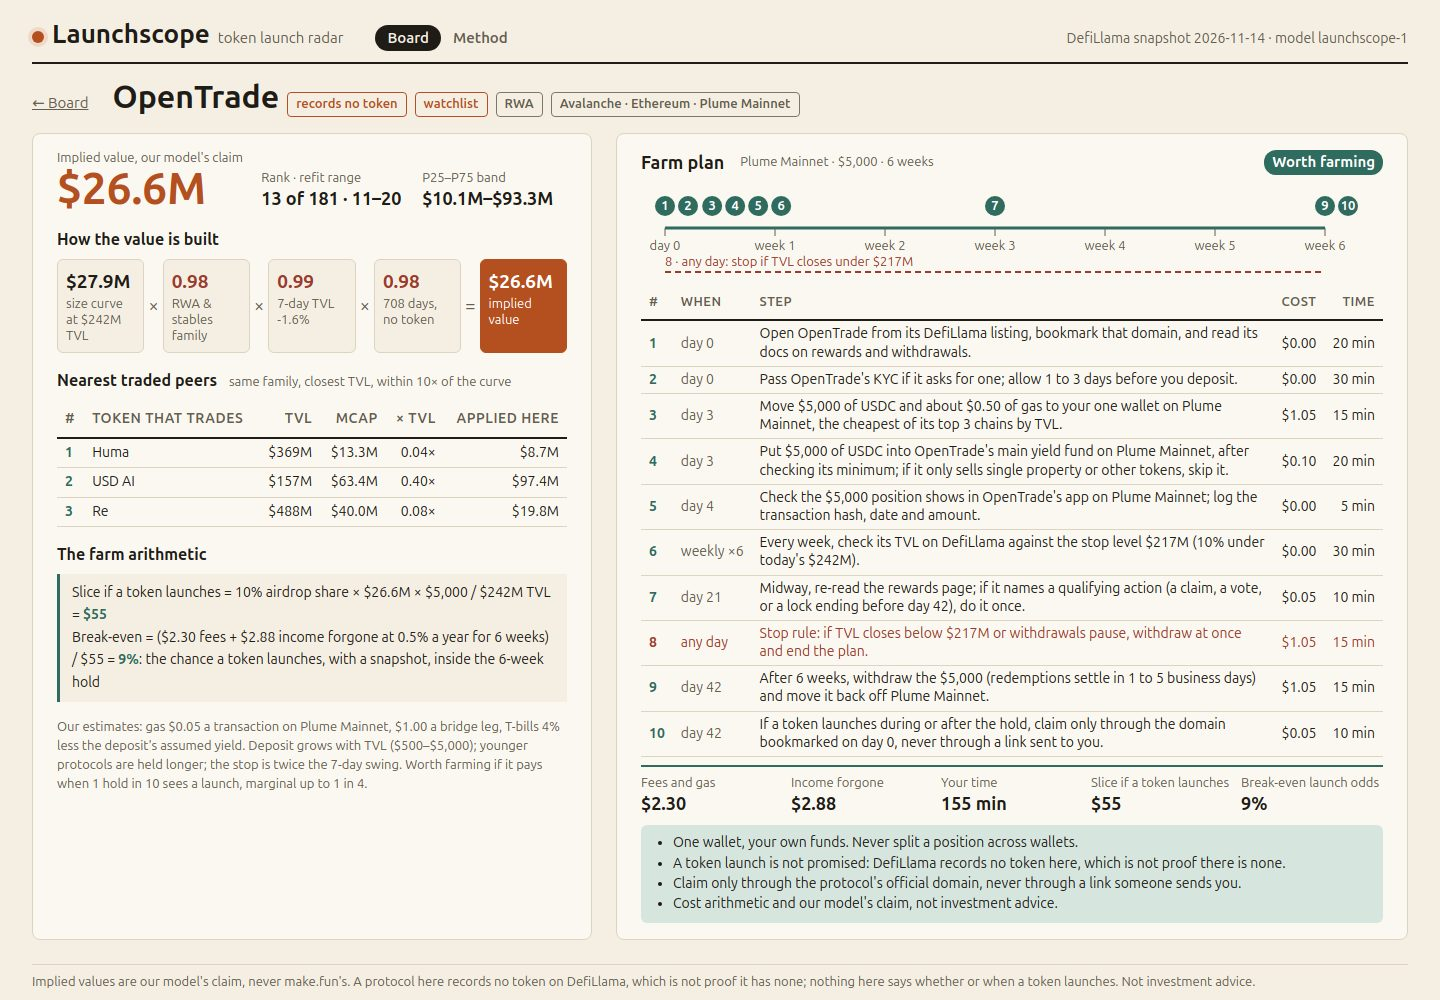
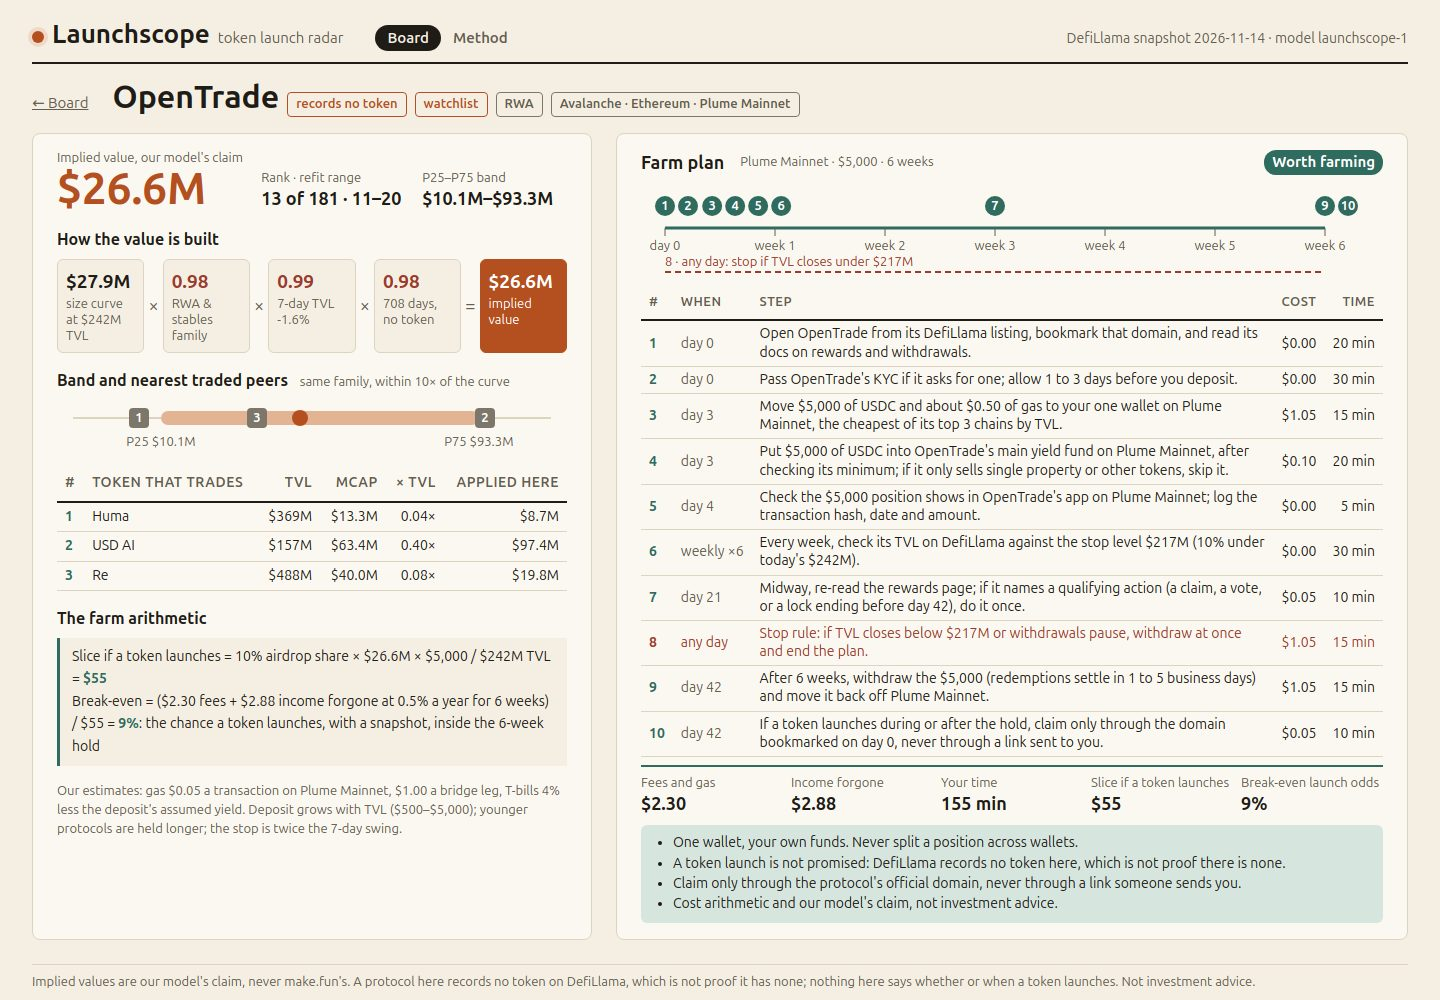
Detail: bring back the band chart with the nearest traded peers as markers
The detail view draws the P25-P75 band on a log axis with the value as a dot
and each traded peer, numbered as in the peers table, at the value its
multiple would give. Paid for by tightening the method and judge-note prose.

Changed region(s): [[0.0312, 0.372, 0.4062, 0.837]]

diff --git a/dashboard/radar.js b/dashboard/radar.js
@@ -196,6 +196,14 @@
       `<div class="tile res"><b>${L.usd(iv.value)}</b><span>implied value</span></div></div>`;
   }
 
+  /** The band on a log axis, the value (dot) and, numbered, what each traded peer's multiple would make it. */
+  function bandHtml(r) {
+    const v = [r.boot.p25, r.boot.p75, r.iv.value, ...r.peers.map((t) => t.implied)].map(Math.log10);
+    const a = Math.min(...v) - 0.2, x = (u) => (100 * (Math.log10(u) - a)) / (Math.max(...v) + 0.2 - a);
+    return `<div class="bd"><i style="left:${x(r.boot.p25).toFixed(1)}%;width:${(x(r.boot.p75) - x(r.boot.p25)).toFixed(1)}%"></i>${r.peers.map((t, i) => `<em style="left:${x(t.implied).toFixed(1)}%">${i + 1}</em>`).join('')}` +
+      `<b style="left:${x(r.iv.value).toFixed(1)}%"></b><span style="left:${x(r.boot.p25).toFixed(1)}%">P25 ${L.usd(r.boot.p25)}</span><span style="left:${x(r.boot.p75).toFixed(1)}%">P75 ${L.usd(r.boot.p75)}</span></div>`;
+  }
+
   /** The plan's calendar, day 0 to the exit week: numbered steps, weekly ticks and the stop line. */
   function timelineSvg(plan) {
     const end = plan.weeks * 7, sx = (d) => 24 + (d / end) * 660;
@@ -224,12 +232,12 @@
         <section class="card">
           <div class="facts"><div class="big"><span>Implied value, our model's claim</span><b>${L.usd(r.iv.value)}</b></div><div><span>Rank · refit range</span><b>${r.rank} of ${M.rows.length} · ${r.boot.rankLo}–${r.boot.rankHi}</b></div><div><span>P25–P75 band</span><b>${L.usd(r.boot.p25)}–${L.usd(r.boot.p75)}</b></div></div>
           <h2>How the value is built</h2>${equationHtml(r)}
-          <h2>Nearest traded peers <small>same family, closest TVL, within 10× of the curve</small></h2>
+          <h2>Band and nearest traded peers <small>same family, within 10× of the curve</small></h2>${bandHtml(r)}
           <table class="mini"><thead><tr><th>#</th><th>Token that trades</th><th class="num">TVL</th><th class="num">Mcap</th><th class="num">× TVL</th><th class="num">Applied here</th></tr></thead><tbody>${peers}</tbody></table>
           <h2>The farm arithmetic</h2>
           <p class="math">Slice if a token launches = ${A.airdropShare * 100}% airdrop share × ${L.usd(r.iv.value)} × ${L.usd(p.deposit)} / ${L.usd(r.tvl_usd)} TVL = <b>${L.usd(p.slice)}</b><br>
           Break-even = (${L.usd(p.costs)} fees + ${L.usd(p.capitalCost)} income forgone at ${(p.carry * 100).toFixed(1)}% a year for ${p.weeks} weeks) / ${L.usd(p.slice)} = <b>${odds(p.breakEven)}</b>: ${esc(L.oddsText(p, r.iv.value))}</p>
-          <p class="assume">Our estimates: gas ${L.usd(p.gas)} a transaction on ${esc(p.chain)}, ${L.usd(A.bridgeFee)} a bridge leg, T-bills ${A.tbillRate * 100}% less the deposit's assumed yield. Deposit grows with TVL (${L.usd(A.depositMin)}–${L.usd(A.depositMax)}); younger protocols are held longer; the stop is twice the 7-day swing. Worth farming if it pays when 1 hold in ${Math.round(1 / A.farmOdds)} sees a launch, marginal up to 1 in ${Math.round(1 / A.marginalOdds)}.</p>
+          <p class="assume">Our estimates: gas ${L.usd(p.gas)} a transaction on ${esc(p.chain)}, ${L.usd(A.bridgeFee)} a bridge leg, T-bills ${A.tbillRate * 100}% less the deposit's assumed yield. Deposit grows with TVL (${L.usd(A.depositMin)}–${L.usd(A.depositMax)}); younger protocols are held longer; the stop is twice the 7-day swing.</p>
         </section>
         <section class="card plan">
           <h2>Farm plan <small>${esc(p.chain)} · ${L.usd(p.deposit)} · ${p.weeks} weeks</small><i class="verdict v-${p.verdict}">${L.VERDICT_LABEL[p.verdict]}</i></h2>
@@ -272,14 +280,14 @@
         <p class="legend"><i class="dot t"></i> traded token <i class="dot r"></i> ranked protocol at its implied value <i class="dot fit"></i> size curve: log10 value = ${f.a.toFixed(2)} + ${f.b.toFixed(2)} × log10(TVL / $100M)</p>
         <p>A token's market cap grows with TVL at a slope of ${f.b.toFixed(2)}: ten times the TVL is worth ${(10 ** f.b).toFixed(1)} times the value, so small protocols carry a higher multiple than large ones.</p>
         <div class="judge"><h2>Note to the judge</h2><ol>
-          <li>Working radar: at load, <code>deriveAll</code> runs <code>buildRadar</code> on the raw snapshot in this browser; its <code>selectUniverse</code> ranks ${M.watch} of the ${c.watchlist} watchlist protocols plus ${c.ranked - M.watch} more, and every row is checked against board.json (${M.check.ok ? 'all match' : 'see the board'}).</li>
-          <li>Value model: <code>impliedValue</code> uses TVL, the category family, the 7-day change and days since listing, never a name; <code>fitCurve</code> fits it on the snapshot's traded tokens, <code>looCheck</code> tests it, <code>bootstrapRanks</code> gives bands and rank ranges.</li>
-          <li>Farm plans: <code>farmPlan</code> picks the chain, deposit, hold and stop from each row's data, with a cost and a time per step and break-even odds.</li>
+          <li>Working radar: <code>deriveAll</code> runs <code>buildRadar</code> on the raw snapshot in this browser; <code>selectUniverse</code> ranks ${M.watch} of ${c.watchlist} watchlist protocols plus ${c.ranked - M.watch} more; every row is checked against board.json (${M.check.ok ? 'all match' : 'see the board'}).</li>
+          <li>Value model: <code>impliedValue</code> uses TVL, category family, 7-day change and days since listing, never a name; <code>fitCurve</code> fits it on traded tokens, <code>looCheck</code> tests it, <code>bootstrapRanks</code> gives bands and rank ranges.</li>
+          <li>Farm plans: <code>farmPlan</code> sets chain, deposit, hold and stop from each row's data, with cost, time and break-even odds.</li>
           <li>Page: <code>filterRows</code>, <code>sortRows</code>, <code>renderDetail</code>; state lives in the URL hash.</li>
         </ol></div></section>
       <section class="card"><h2>Out of sample: each traded token priced by a fit that never saw it</h2>
         <table class="mini"><thead><tr><th>Model</th><th class="num">Median miss</th><th class="num">Mean |log miss|</th><th class="num">Within 3×</th></tr></thead><tbody>${looRows}</tbody></table>
-        <p>Size curve and family earn their place. Growth and seasoning do not improve the fit (mean miss ${loo[3].meanLogMiss.toFixed(3)} vs ${loo[2].meanLogMiss.toFixed(3)}): this week's traded TVL fell almost everywhere, and a traded token's listing age is not time without a token. So both are bounded priors, not fitted: growth tilts value by half the 7-day change (×${L.MODEL.growthMin}–×${L.MODEL.growthMax}); seasoning discounts a new protocol up to ${L.MODEL.seasonDepth * 100}%, fading over ${L.MODEL.seasonDays} days. A ${loo[3].medianMiss.toFixed(1)}× median miss is why every row shows a band.</p>
+        <p>Size curve and family earn their place. Growth and seasoning do not cut the miss (${loo[3].meanLogMiss.toFixed(3)} vs ${loo[2].meanLogMiss.toFixed(3)}): traded TVL fell almost everywhere this week, and a traded token's age is not time without a token. So both are bounded priors: growth tilts value by half the 7-day change (×${L.MODEL.growthMin}–×${L.MODEL.growthMax}); seasoning discounts a new protocol up to ${L.MODEL.seasonDepth * 100}%, fading over ${L.MODEL.seasonDays} days. A ${loo[3].medianMiss.toFixed(1)}× median miss is why every row shows a band.</p>
         <h2>Category families <small>offset = mean miss shrunk by ${L.MODEL.familyShrinkK} pseudo-tokens</small></h2>
         <table class="mini"><thead><tr><th>Family</th><th class="num">Traded</th><th class="num">Ranked</th><th class="num">Offset</th></tr></thead><tbody>${famRows}</tbody></table>
         <h2>From ${c.protocols} protocols to ${c.ranked} ranks</h2>

diff --git a/dashboard/style.css b/dashboard/style.css
@@ -104,6 +104,12 @@ td { padding: 4px 8px; border-bottom: 1px solid var(--rule); }
 .tile.down b, .steps tr.cond td { color: var(--red); }
 .tile.res { background: var(--accent); border-color: var(--accent); }
 .tile.res b, .tile.res span { color: #fff; }
+.bd { position: relative; height: 40px; margin: 24px 16px 8px; border-top: 2px solid var(--rule); }
+.bd i, .bd b, .bd em, .bd span { position: absolute; transform: translateX(-50%); }
+.bd i { top: -8px; height: 14px; border-radius: 7px; background: #e3b494; transform: none; }
+.bd b { top: -9px; width: 16px; height: 16px; border-radius: 50%; background: var(--accent); }
+.bd em { top: -11px; width: 20px; height: 20px; border-radius: 4px; background: var(--grey); color: #fff; font: 700 13px/20px var(--sans); text-align: center; }
+.bd span { top: 14px; font-size: 13px; color: var(--muted); white-space: nowrap; }
 .math { font-size: 14px; line-height: 1.6; margin: 0; padding: 8px 12px; background: var(--paper); border-left: 3px solid var(--plan); }
 .mini td, .mini th, .steps td, .honesty { font-size: 14px; }
 .plan h2 { display: flex; align-items: center; gap: 8px; font-size: 18px; }
